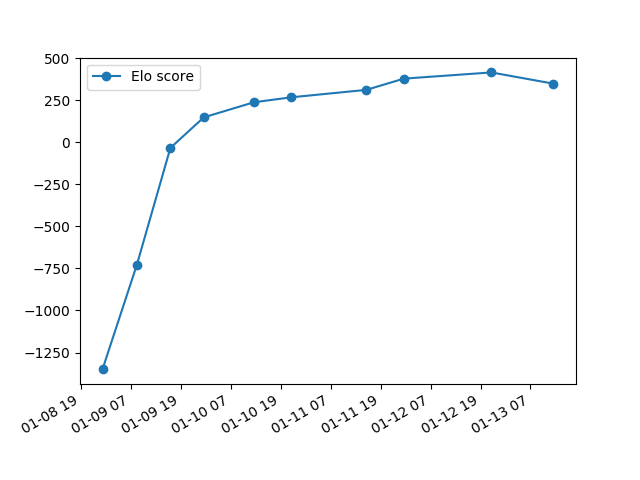
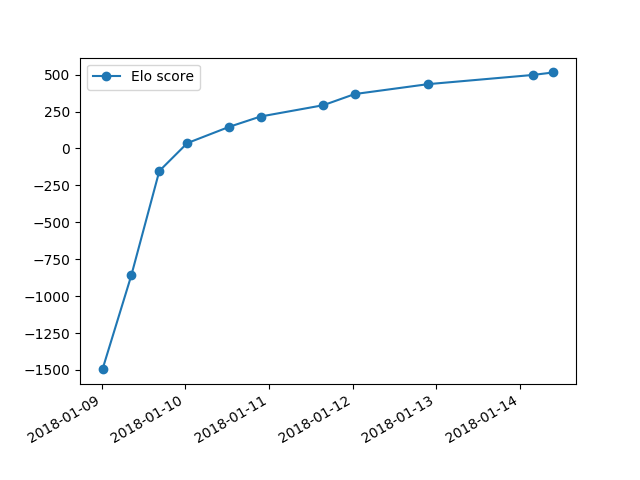
Correct a mistake in elo score calculation: didn't consider tie situation

diff --git a/analysis/elo_score.py b/analysis/elo_score.py
@@ -6,7 +6,7 @@ import pandas as pd
 import statsmodels.api as sm
 
 data_dir = r'./dnn_data'
-TOTAL_NUM_VERSIONS = 9
+TOTAL_NUM_VERSIONS = 10
 
 XY = pd.DataFrame()
 
@@ -21,8 +21,10 @@ for v in range(0, TOTAL_NUM_VERSIONS):
         game_num = len(XY)
         if game_result.loc[i, 'winner'] == 'challenger':
             XY.loc[game_num, 'is_challenger_win'] = True
-        else:
+        elif game_result.loc[i, 'winner'] == 'champion':
             XY.loc[game_num, 'is_challenger_win'] = False
+        else:
+            continue
 
         if game_result.loc[i, 'first_player'] == 'challenger':
             XY.loc[game_num, 'is_challenger_first'] = 1

diff --git a/dnn.py b/dnn.py
@@ -14,7 +14,7 @@ conv_kernel_sizes = [(3,3), (3,3), (3,3)]
 conv_strides = [1, 1, 1]
 conv_paddings = ["SAME"] * 3
 conv_activation = [tf.nn.relu] * 3
-l2_regu_coef = 5e-2
+l2_regu_coef = 2e-2
 hidden_activation = tf.nn.relu
 n_outputs = input_height * input_width
 initializer = tf.contrib.layers.variance_scaling_initializer()

diff --git a/analyze_selfplay.py b/analyze_selfplay.py
@@ -26,7 +26,7 @@ else:
     print('Get %d number of games' %len(X_files))
 
 prev_version = training_status['current_champion'] - 1
-while len(X_files) < 12000:
+while len(X_files) < 15000:
     if prev_version < -1:
         break
     data_dir = os.path.join(base_dir, 'selfplay', 'v%d' %prev_version)
